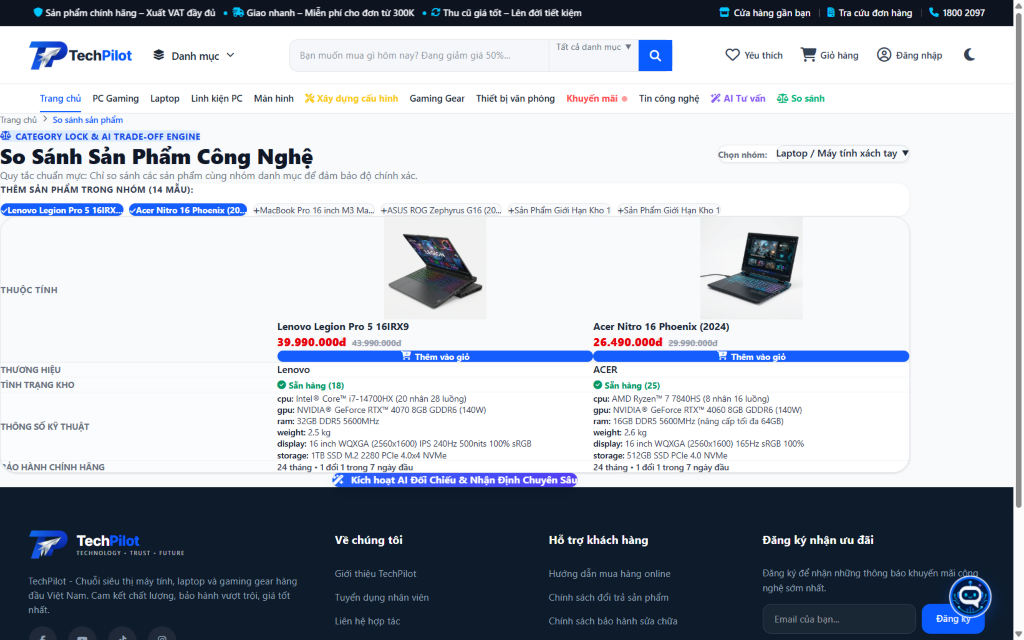
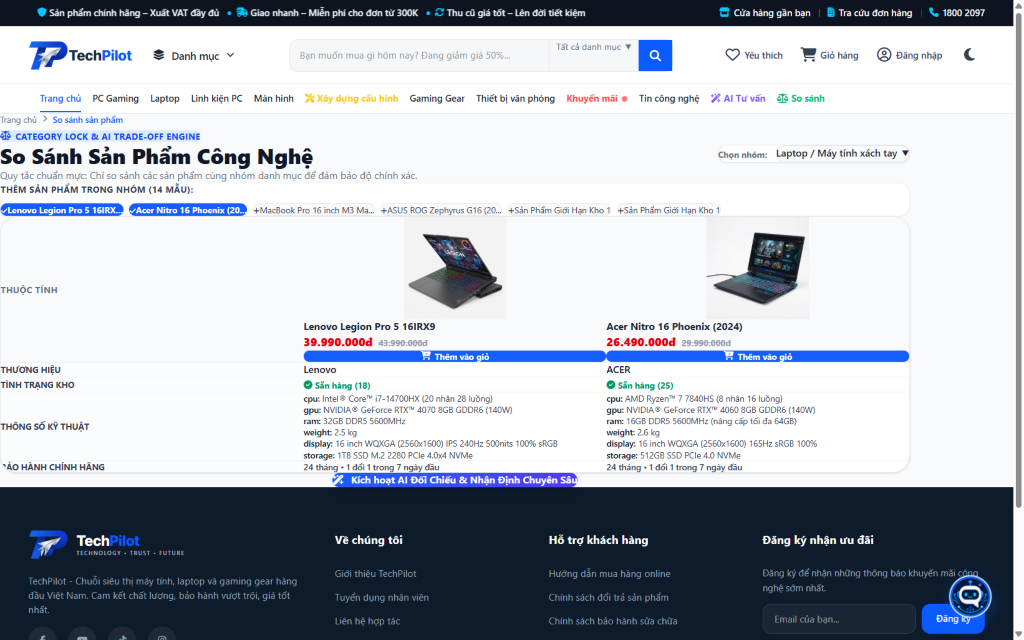
fix(compare): mo rong padding cot trai dam bao chu bao hanh khong bi cat

diff --git a/apps/web/src/features/compare/ComparePage.tsx b/apps/web/src/features/compare/ComparePage.tsx
@@ -240,11 +240,11 @@ export const ComparePage: React.FC = () => {
 
         {/* Comparison Table */}
         <div className="bg-white rounded-3xl shadow-sm border border-gray-200 overflow-hidden mb-8">
-          <div className="overflow-x-auto">
+          <div className="overflow-x-auto" style={{ scrollPaddingLeft: '24px' }}>
             <table className="w-full border-collapse text-left min-w-[700px]">
               <thead>
                 <tr className="bg-slate-50 border-b border-gray-200">
-                  <th className="py-5 pl-6 pr-4 w-56 min-w-[200px] text-xs font-bold text-gray-500 uppercase tracking-wider">
+                  <th className="py-5 pl-8 pr-4 w-64 min-w-[220px] text-xs font-bold text-gray-500 uppercase tracking-wider">
                     Thuộc tính
                   </th>
                   {displayProducts.map((p) => {
@@ -300,7 +300,7 @@ export const ComparePage: React.FC = () => {
               </thead>
               <tbody className="divide-y divide-gray-100 text-sm">
                 <tr>
-                  <td className="py-4 pl-6 pr-4 w-56 min-w-[200px] whitespace-nowrap font-bold text-gray-500 text-xs uppercase bg-slate-50/50">Thương hiệu</td>
+                  <td className="py-4 pl-8 pr-4 w-64 min-w-[220px] whitespace-nowrap font-bold text-gray-700 text-xs uppercase bg-slate-50/50">Thương hiệu</td>
                   {displayProducts.map((p) => (
                     <td key={p.id} className="p-4 font-semibold text-gray-900">
                       {p.brand?.name || 'Chính Hãng'}
@@ -308,7 +308,7 @@ export const ComparePage: React.FC = () => {
                   ))}
                 </tr>
                 <tr>
-                  <td className="py-4 pl-6 pr-4 w-56 min-w-[200px] whitespace-nowrap font-bold text-gray-500 text-xs uppercase bg-slate-50/50">Tình trạng kho</td>
+                  <td className="py-4 pl-8 pr-4 w-64 min-w-[220px] whitespace-nowrap font-bold text-gray-700 text-xs uppercase bg-slate-50/50">Tình trạng kho</td>
                   {displayProducts.map((p) => (
                     <td key={p.id} className="p-4">
                       {p.stockQuantity > 0 ? (
@@ -322,7 +322,7 @@ export const ComparePage: React.FC = () => {
                   ))}
                 </tr>
                 <tr>
-                  <td className="py-4 pl-6 pr-4 w-56 min-w-[200px] whitespace-nowrap font-bold text-gray-500 text-xs uppercase bg-slate-50/50">Thông số kỹ thuật</td>
+                  <td className="py-4 pl-8 pr-4 w-64 min-w-[220px] whitespace-nowrap font-bold text-gray-700 text-xs uppercase bg-slate-50/50">Thông số kỹ thuật</td>
                   {displayProducts.map((p) => (
                     <td key={p.id} className="p-4 text-xs text-gray-700 space-y-1">
                       {p.specs ? (
@@ -338,7 +338,7 @@ export const ComparePage: React.FC = () => {
                   ))}
                 </tr>
                 <tr>
-                  <td className="py-4 pl-6 pr-4 w-56 min-w-[200px] whitespace-nowrap font-bold text-gray-500 text-xs uppercase bg-slate-50/50">Bảo hành chính hãng</td>
+                  <td className="py-4 pl-8 pr-4 w-64 min-w-[220px] whitespace-nowrap font-bold text-gray-700 text-xs uppercase bg-slate-50/50">Bảo hành chính hãng</td>
                   {displayProducts.map((p) => (
                     <td key={p.id} className="p-4 text-xs font-medium text-gray-700">
                       24 tháng • 1 đổi 1 trong 7 ngày đầu
